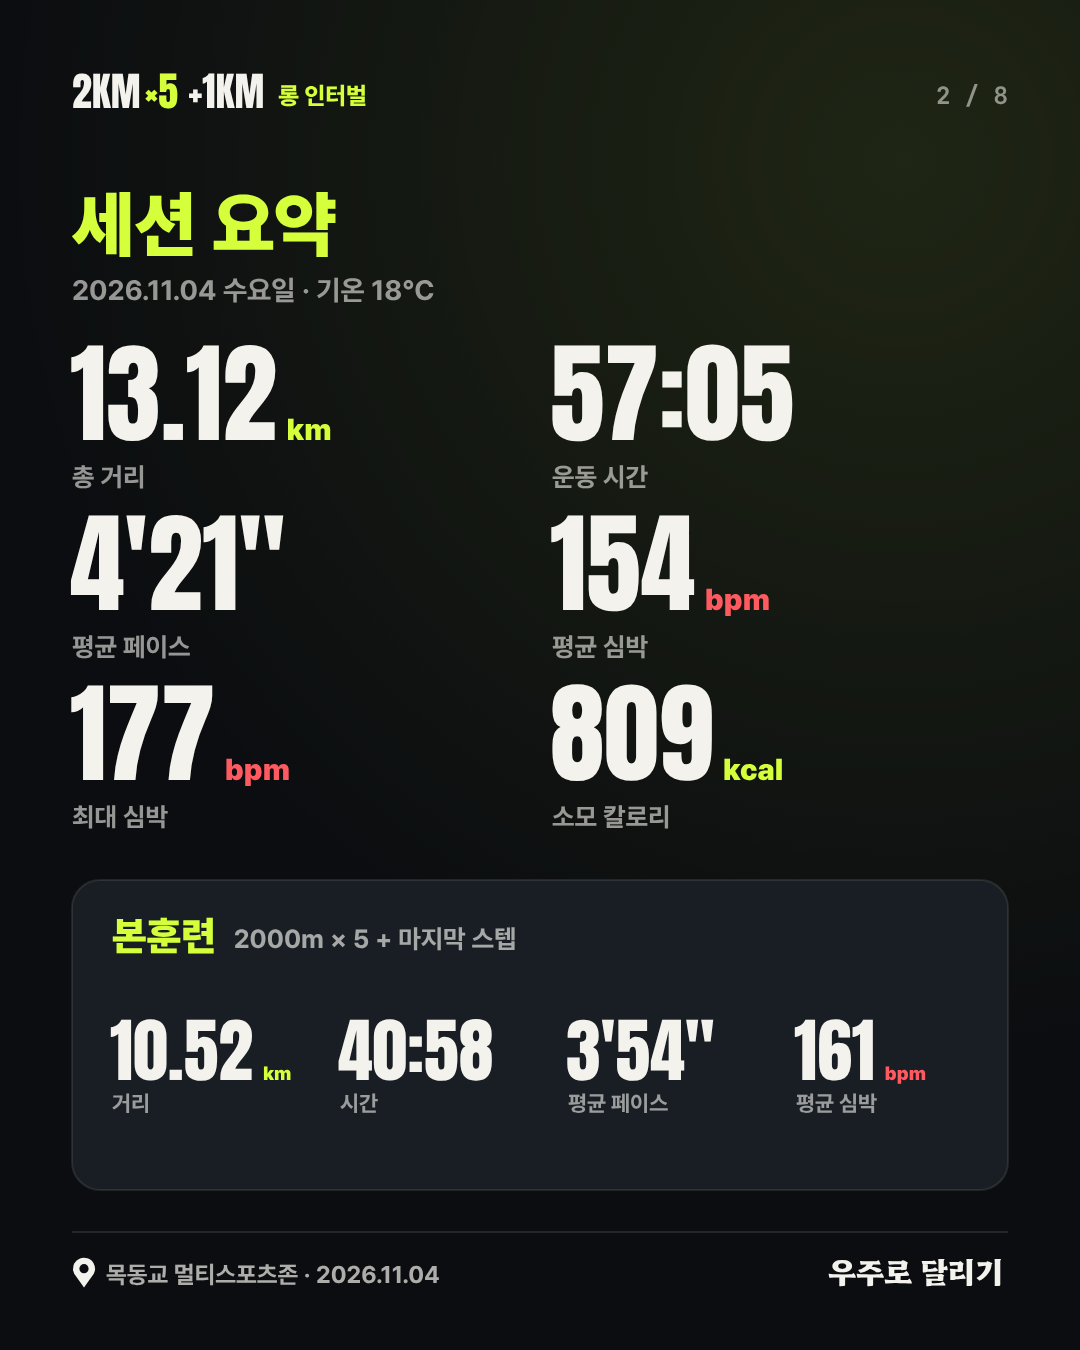
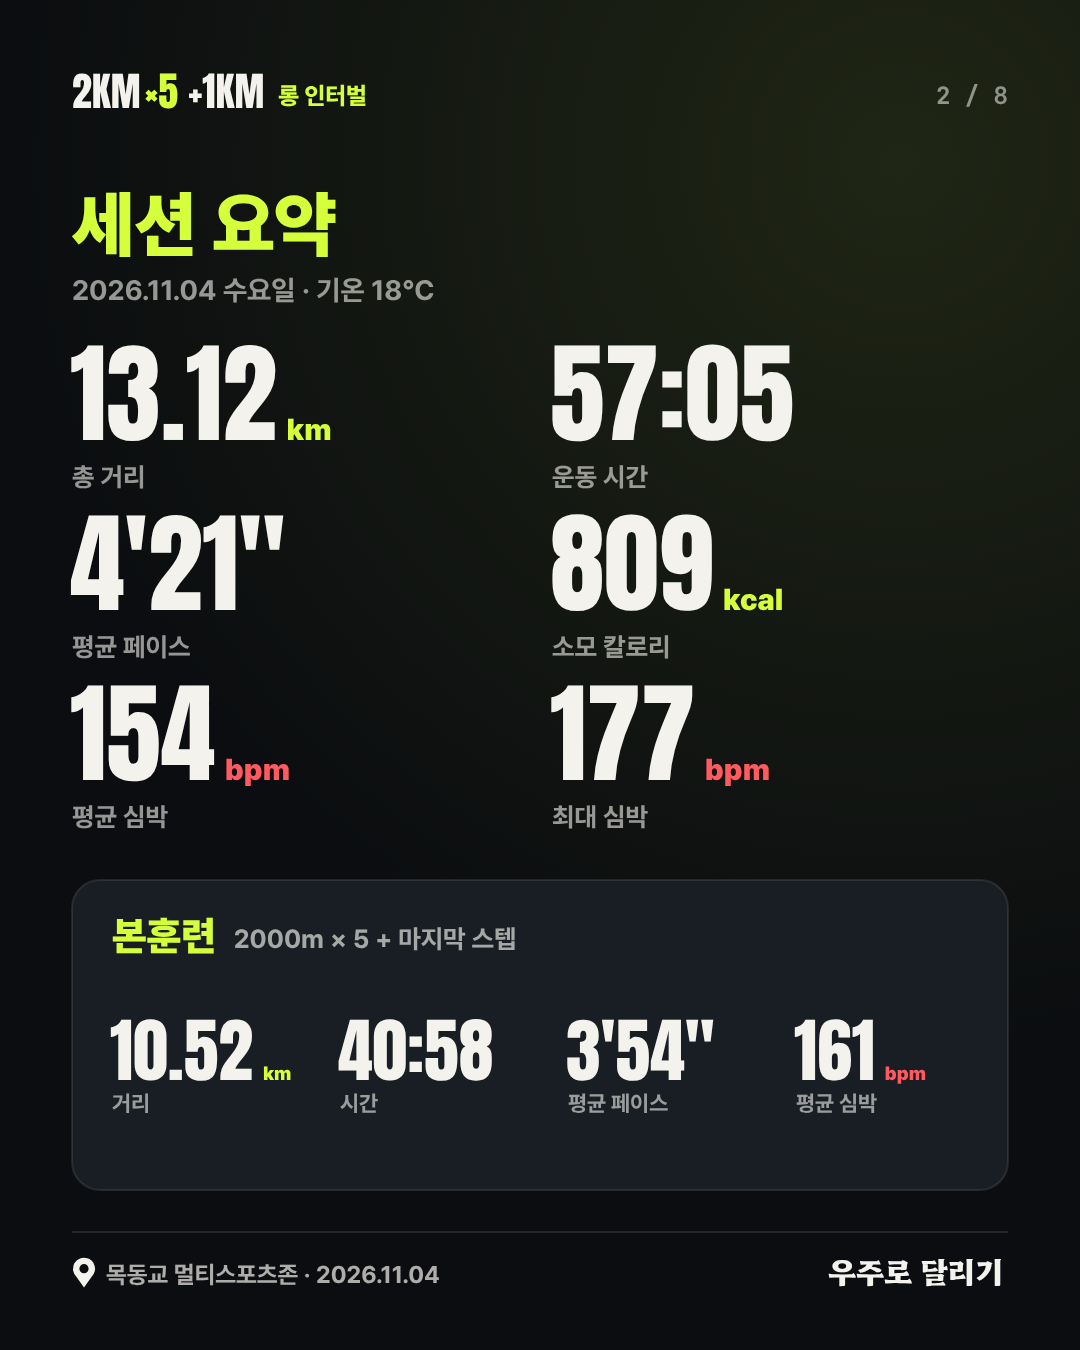
Session summary card: put average and max HR on the same row
Claude-Session: https://claude.ai/code/session_014Y6EAQ8ssYscUPsXE8Frp2

Changed region(s): [[0.4889, 0.3733, 0.7333, 0.6222], [0.0611, 0.4978, 0.2139, 0.6222]]

diff --git a/.claude/skills/instagram-training-feed/template/cards.js b/.claude/skills/instagram-training-feed/template/cards.js
@@ -185,8 +185,9 @@ const FEED_CARDS = [
   // 2. 세션 요약
   ['02-session-summary', () => {
     cardFrame(2, '세션 요약', '2026.11.04 수요일 · 기온 18°C');
-    const cells = [['13.12', 'km', '총 거리'], ['57:05', '', '운동 시간'], [fmtPace(261.1), '', '평균 페이스'], ['154', 'bpm', '평균 심박'], ['177', 'bpm', '최대 심박'], ['809', 'kcal', '소모 칼로리']];
-    cells.forEach(([v, u, l], i) => stat(72 + (i % 2) * 480, 440 + Math.floor(i / 2) * 170, v, u, l, { size: 110, uc: i === 3 || i === 4 ? C.coral : C.lime }));
+    // 줄 구성: 거리·시간 / 페이스·칼로리 / 평균 심박·최대 심박
+    const cells = [['13.12', 'km', '총 거리'], ['57:05', '', '운동 시간'], [fmtPace(261.1), '', '평균 페이스'], ['809', 'kcal', '소모 칼로리'], ['154', 'bpm', '평균 심박'], ['177', 'bpm', '최대 심박']];
+    cells.forEach(([v, u, l], i) => stat(72 + (i % 2) * 480, 440 + Math.floor(i / 2) * 170, v, u, l, { size: 110, uc: u === 'bpm' ? C.coral : C.lime }));
     panel(72, 880, W - 144, 310);
     txt('본훈련', 112, 950, { size: 40, weight: 900, color: C.lime });
     txt('2000m × 5 + 마지막 스텝', 112 + measure('본훈련', 40, 900) + 18, 948, { size: 26, weight: 700, alpha: .65 });

diff --git a/run-review/cards.js b/run-review/cards.js
@@ -185,8 +185,9 @@ const FEED_CARDS = [
   // 2. 세션 요약
   ['02-session-summary', () => {
     cardFrame(2, '세션 요약', '2026.11.04 수요일 · 기온 18°C');
-    const cells = [['13.12', 'km', '총 거리'], ['57:05', '', '운동 시간'], [fmtPace(261.1), '', '평균 페이스'], ['154', 'bpm', '평균 심박'], ['177', 'bpm', '최대 심박'], ['809', 'kcal', '소모 칼로리']];
-    cells.forEach(([v, u, l], i) => stat(72 + (i % 2) * 480, 440 + Math.floor(i / 2) * 170, v, u, l, { size: 110, uc: i === 3 || i === 4 ? C.coral : C.lime }));
+    // 줄 구성: 거리·시간 / 페이스·칼로리 / 평균 심박·최대 심박
+    const cells = [['13.12', 'km', '총 거리'], ['57:05', '', '운동 시간'], [fmtPace(261.1), '', '평균 페이스'], ['809', 'kcal', '소모 칼로리'], ['154', 'bpm', '평균 심박'], ['177', 'bpm', '최대 심박']];
+    cells.forEach(([v, u, l], i) => stat(72 + (i % 2) * 480, 440 + Math.floor(i / 2) * 170, v, u, l, { size: 110, uc: u === 'bpm' ? C.coral : C.lime }));
     panel(72, 880, W - 144, 310);
     txt('본훈련', 112, 950, { size: 40, weight: 900, color: C.lime });
     txt('2000m × 5 + 마지막 스텝', 112 + measure('본훈련', 40, 900) + 18, 948, { size: 26, weight: 700, alpha: .65 });
